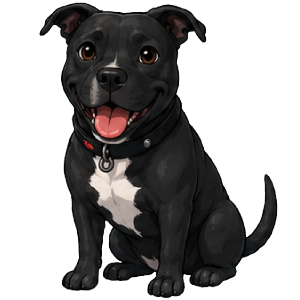
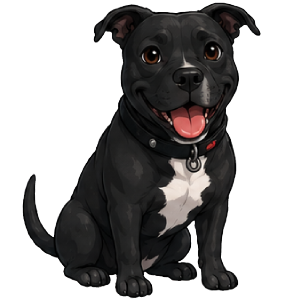
changed welcome screen dog img and replaced faulty geo map placeholder

diff --git a/src/components/characterInfoContent/FinishedInfo.tsx b/src/components/characterInfoContent/FinishedInfo.tsx
@@ -1,5 +1,5 @@
 import { useEffect, useRef } from "react";
-import { StyleSheet, View } from "react-native";
+import { Platform, StyleSheet, View } from "react-native";
 import MapView, { Polyline } from "react-native-maps";
 
 import { useActivity } from "../../providers/ActivityContext";
@@ -40,16 +40,20 @@ export default function FinishedInfo() {
 
   return (
     <View style={styles.container}>
-      
-      <MapView style={styles.map} ref={mapRef}>
-        {route.length > 1 && (
-          <Polyline
-            coordinates={route}
-            strokeWidth={4}
-            strokeColor="#FF3B30"
-          />
-        )}
-      </MapView>
+
+      {Platform.OS === "android" ? (
+        <View style={styles.mapPlaceholder} />
+      ) : (
+        <MapView style={styles.map} ref={mapRef}>
+          {route.length > 1 && (
+            <Polyline
+              coordinates={route}
+              strokeWidth={4}
+              strokeColor="#FF3B30"
+            />
+          )}
+        </MapView>
+      )}
 
       <AppText style={styles.info}>
         Distance: {(distanceMeters / 1000).toFixed(2)} km
